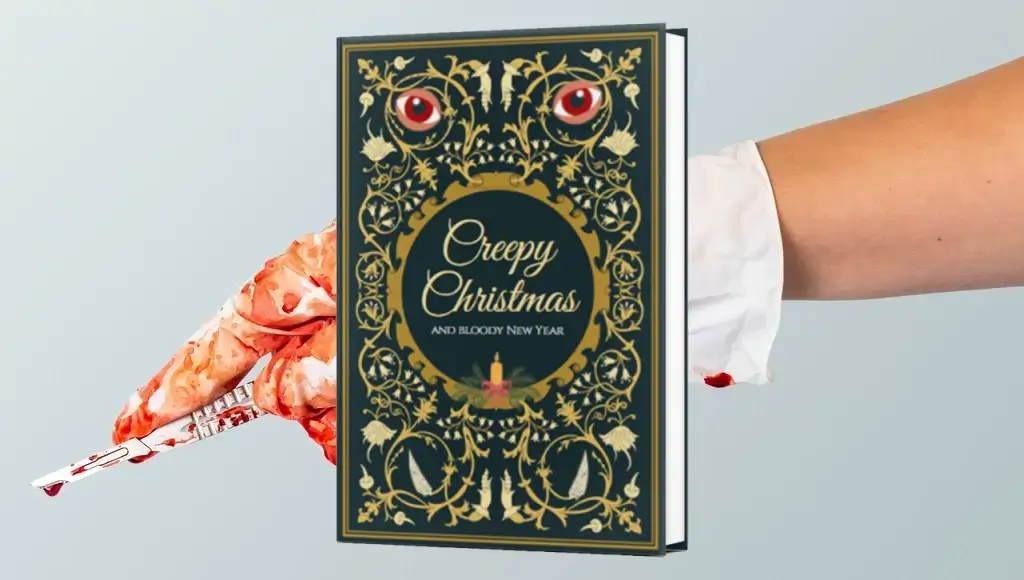
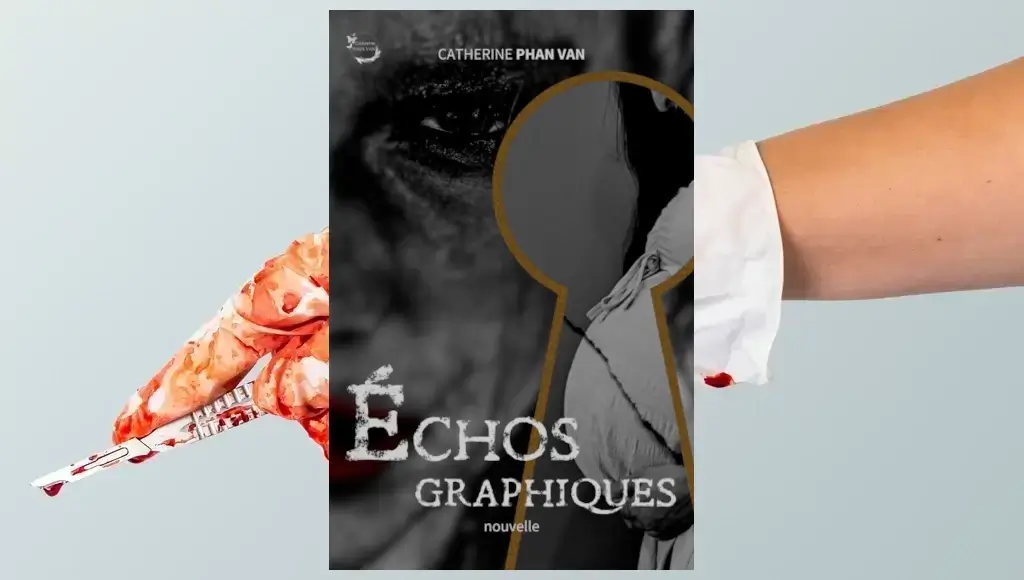
update échos graphiques

diff --git a/_publications/echos-graphiques.md b/_publications/echos-graphiques.md
@@ -15,16 +15,28 @@ sidebar:
     image_alt: "couverture"
     text: |
       Nouvelle horrifique\
-      Parue dans le recueil *Creepy Christmas and Bloody New Year*, publié aux éditions BeetleBooks Publishing\
-      Novembre 2023
+      Décembre 2024\
+      (première publication dans le recueil *Creepy Christmas and Bloody New Year*, BeetleBooks Publishing, 2023)
 ---
 
-Aurélie et Nicolas attendent un heureux événement. Ils viennent passer Noël au calme dans un village isolé du Haut-Doubs. Mais quels échos du passé leur présence va-t-elle y réveiller ?
+**Vous détestez l'ambiance de Noël, le chocolat chaud, les guimauves et les guirlandes de bons sentiments&nbsp;?**
+
+*Échos graphiques* est une nouvelle de Noël horrifique, qui vous fera frissonner même au coin du feu&nbsp;!
+
+Aurélie et Nicolas attendent un heureux événement. À l'approche des fêtes, ils viennent passer Noël au calme dans un village isolé du Haut-Doubs.
+
+**Mais quels échos du passé leur présence va-t-elle y réveiller&nbsp;?**
+
+***Offrez-vous cette courte lecture et plongez dans les méandres de l'âme humaine, où les pires monstres ne sont pas forcément ceux que l'on croit.***
 
 <hr>
 
-Nouvelle parue en novembre 2023 dans le recueil ***Creepy Christmas and Bloody New Year***, aux éditions <a href="https://www.instagram.com/beetlebooks_publishing/" target="_blank">BeetleBooks Publishing</a>.
+Sortie le 5 décembre 2024
 
-Disponible <a href="https://www.amazon.fr/CREEPY-CHRISTMAS-Bloody-New-Year-ebook/dp/B0CMQHGD48" target="_blank">en version numérique</a> ou <a href="https://www.amazon.fr/dp/B0CNYBQB9M" target="_blank">en version brochée</a>.
+Disponible en précommande sur ma boutique <a href="https://catherinephanvan.sumupstore.com/article/precommande-echos-graphiques-version-ebook-formats-epub-mobi-et-pdf-inclus" target="_blank">en version numérique</a> (formats epub / pdf / mobi) ou <a href="https://catherinephanvan.sumupstore.com/article/precommande-echos-graphiques" target="_blank">en version brochée</a>, ou sur amazon <a href="https://www.amazon.fr/dp/B0DNSJ9CY4" target="_blank">en version numérique</a>.
+
+<hr>
+
+Une première version de ce texte a été publiée en 2023 dans le recueil ***Creepy Christmas and Bloody New Year***, aux éditions <a href="https://www.instagram.com/beetlebooks_publishing/" target="_blank">BeetleBooks Publishing</a>.
 
 <video width="512" height="640" controls muted autoplay><source src="/assets/images/publications/echos-graphiques-teaser.mp4"></video>

diff --git a/liens-utiles.md b/liens-utiles.md
@@ -9,6 +9,14 @@ toc_label: Liens utiles
 
 ## Mes textes
 
+### Échos graphiques - précommande (envoi à partir du 05/12)
+
+<a href="https://catherinephanvan.sumupstore.com/article/precommande-echos-graphiques-version-ebook-formats-epub-mobi-et-pdf-inclus" target="_blank">Version numérique (formats epub / pdf / mobi inclus)</a>{: .btn .btn--info .btn--large .btn--linktree}
+
+<a href="https://catherinephanvan.sumupstore.com/article/precommande-echos-graphiques" target="_blank">Version brochée (dédicace possible)</a>{: .btn .btn--info .btn--large .btn--linktree}
+
+<a href="https://www.amazon.fr/dp/B0DNSJ9CY4" target="_blank">Version numérique via Amazon</a>{: .btn .btn--info .btn--large .btn--linktree}
+
 ### Mon prochain roman à paraître
 
 [*Cercueil et préjugés* (comédie romantique)](/publications/cercueil-et-prejuges){: .btn .btn--info .btn--large .btn--linktree}
